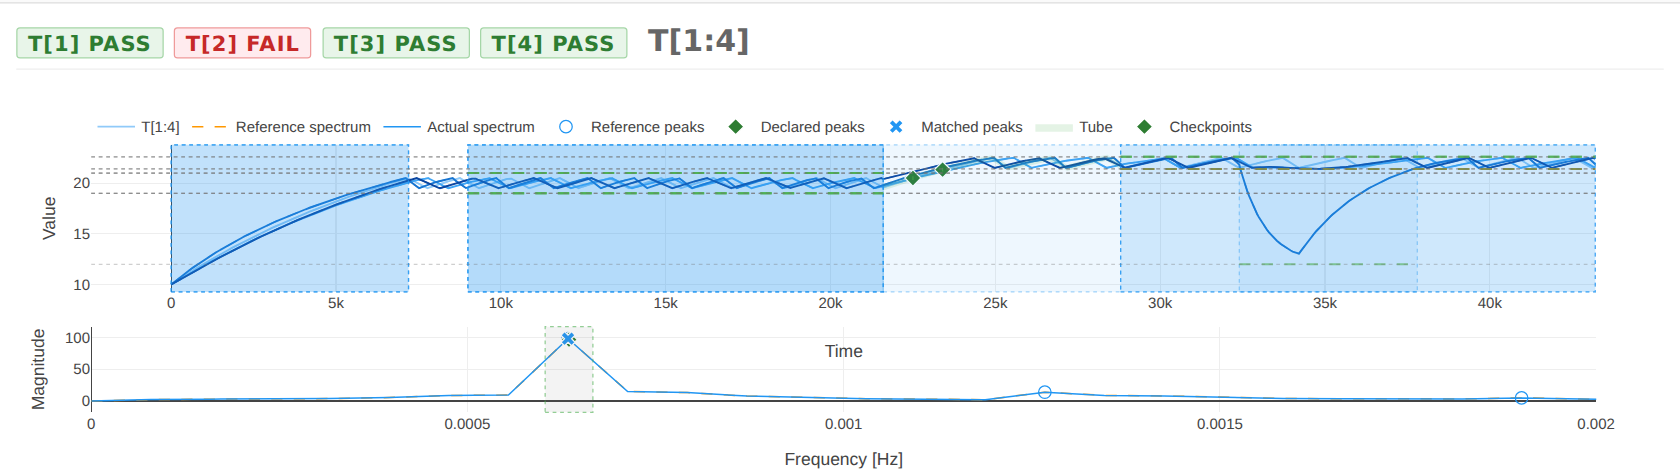
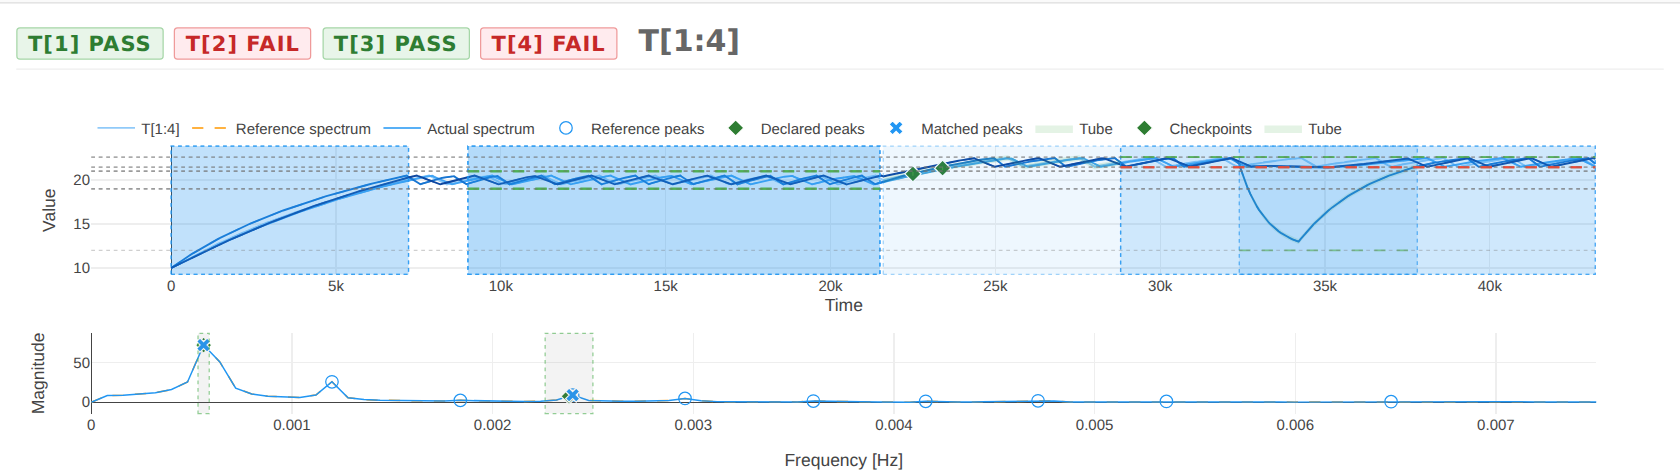
Walk through the showcase's fan and door tube in the criteria guide
The criteria guide's "An example with every metric" now has room 1's
fan and the two peaks dominant-frequency declares, the hard tube on
room 3 over the door (the 12 degC floor stays a warn), and the new
run's numbers: 120 events, both peaks found, rooms 2 and 4 failing
inside the weighted group at 0.023, 17 / 19 criteria passed. The "try
it" paragraph is rewritten from a real run of the 3850 W variant with
Dymola (11 / 19, event count 837 -> 885), and the report screenshot
is retaken from the new run.

The ideas log records the change in the showcase's status, and the
badge entry quotes the new numbers. CLAUDE.md: a 19-leaf tree.

diff --git a/docs/guides/criteria.md b/docs/guides/criteria.md
@@ -162,24 +162,26 @@ so is the base tolerance of a test or a project.
 Modelica example library, puts every metric and every group into one tree.
 Four rooms in a row start at 10 °C, each with a heater and a thermostat that
 holds it within 0.5 °C of 20 °C. At 6 h the setpoint steps to 22 °C, and from
-9 h to 9.5 h room 3's door stands open. The run lasts 12 h, and each part of
-it has its own criteria:
+9 h to 9.5 h room 3's door stands open. Room 1's ventilation fan runs 140 s
+of every 420 s. The run lasts 12 h, and each part of it has its own criteria:
 
 - the warm-up, 0–7200 s: `nrmse` on each room's temperature, `T[1]` to `T[4]`;
 - the cycling, 9000–21500 s: an `or` of `event-timing` on heater 1's state,
-  `heaterOn[1]`, and `dominant-frequency` on the cycle of `T[1]`; and a
-  `k-of-n` that needs three of the four rooms to stay within 19–21 °C
-  (`range`);
+  `heaterOn[1]`, and `dominant-frequency` on `T[1]`, which declares two
+  peaks: the heating cycle, at 5.6e-4 Hz (about 30 minutes), and the fan, at
+  1/420 Hz; and a `k-of-n` that needs three of the four rooms to stay within
+  19–21 °C (`range`);
 - the step, 21600–28800 s: a `tube` of ±0.3 °C around room 1's climb, and
   `points` at two moments of it;
 - the whole run: a `scalar`, the energy heater 1 uses (the integral of
   `P[1]`), within 2 %;
 - the late part, 28800–43200 s: a `weighted` group of three `range`
-  criteria, rooms 1, 2 and 4 within 21.4–22.6 °C, weighted 0.5, 0.3 and 0.2;
-- two `warn` groups: room 3 stays above 12 °C while its door is open and for
-  an hour after, and
-  `T[1]` matches the OpenModelica run, stored as a soft check named
-  `openmodelica`.
+  criteria, rooms 1, 2 and 4 within 21.45–22.6 °C, weighted 0.5, 0.3 and 0.2;
+- the open door, 32400–37800 s: a `tube` of ±0.3 °C around room 3, while its
+  door is open and for an hour after;
+- two `warn` groups: room 3 stays above 12 °C over that same window, a floor
+  that only advises, and `T[1]` matches the OpenModelica run, stored as a soft
+  check named `openmodelica`.
 
 The tree is the test's entry in the library's `test_spec.json`. To run it
 with Dymola, from the repository's root (add `--backend OpenModelica` after
@@ -196,27 +198,34 @@ checkpoint, with the spectrum of the cycle under it:
 
 `event-timing` scores the model's events, not one variable's: every variable
 of a result shares one time column, so heater 1's plot marks the switchings
-of all four rooms, 62 of them between 9000 s and 21500 s. The window ends
-100 s before the setpoint step, so the step's own event stays out of it.
+of all four heaters and of the fan, 120 of them between 9000 s and 21500 s.
+The window ends 100 s before the setpoint step, so the step's own event stays
+out of it. `dominant-frequency` finds both its peaks, at 5.60e-4 Hz and
+2.40e-3 Hz.
 
-Room 2 dips 0.05 °C under its late band, so its `range` criterion fails. Its
-weight is 0.3, so the `weighted` group scores 0.3 × 0.052 = 0.016, under its
-threshold of 0.5, and passes. The page says 17 / 18 criteria passed, and the
+Rooms 2 and 4 dip about 0.05 °C under their late band, so both their `range`
+criteria fail. The `weighted` group tolerates two misses that small: their
+weighted total, 0.3 × 0.047 + 0.2 × 0.046 = 0.023, is far under its threshold
+of 0.5, and the group passes. The page says 17 / 19 criteria passed, and the
 test passes.
 
 To try it, copy the library, give room 3's heater 10 % more power (`Pmax`
 from `{3000, 3200, 3500, 2800}` to `{3000, 3200, 3850, 2800}` in
 `Examples/ThermostatBuildingTest.mo`), and run the command above with the
 copy's `testing.json`, so the copy is scored against the baselines it
-carries. With Dymola the test fails, with 13 / 18 criteria passed. The
-rooms share their heat, so all four warm-up `nrmse` criteria fail (room 3's
-NRMSE is 0.053, against a tolerance of 0.001), and so does `event-timing`,
-which counts more switchings than the baseline holds. The `or` group still passes, because `dominant-frequency` still finds the
-cycle at its period. The `k-of-n` band, the tube, the checkpoints and heater
-1's energy (0.12 % off) all pass. The `weighted` group passes with all three
-of its criteria now, since room 3's extra heat keeps room 2 inside its band.
-Both `warn` groups pass, the OpenModelica comparison at 0.005 against 0.01.
-The run also warns that the model's event count moved, from 453 to 497.
+carries. With Dymola the test fails, with 11 / 19 criteria passed. The rooms
+share their heat, so all four warm-up `nrmse` criteria fail (room 3's NRMSE
+is 0.053, against a tolerance of 0.001), and so does `event-timing`, which
+counts 124 events where the baseline holds 120. The `or` group still passes,
+because `dominant-frequency` still finds both peaks. Both tubes fail: room 1
+leaves its climb's tube (86.5 % of it inside), and room 3, with more power,
+recovers from the open door faster than its baseline (34.9 % inside). The
+`k-of-n` band, the checkpoints and heater 1's energy (0.014 % off) pass. The
+`weighted` group passes with all three of its criteria now, since room 3's
+extra heat lifts rooms 2 and 4 inside their band. The 12 °C floor holds, and
+the OpenModelica comparison fails at 0.013 against 0.01: it is under a
+`warn`, so it only advises. The run also warns that the model's event count
+moved, from 837 to 885.
 
 ## Editing criteria with dstf author
 

diff --git a/docs/ideas.md b/docs/ideas.md
@@ -2214,6 +2214,11 @@ open). What changed from the decisions below when it was built: the tube is
 setpoint step's event stays out of the event count; the frequency peak is
 6.35e-4 Hz, the bin the run measured; and the OpenModelica `against` leaf
 covers the whole run, as the simulators agree within 1.3e-4 throughout.
+Later the same day room 1 got a ventilation fan (140 s of every 420 s), so
+`dominant-frequency` checks two peaks (the heating cycle at 5.6e-4 Hz and the
+fan at 1/420 Hz), and room 3 a hard tube over the door window, making 19
+leaves; with the fan the late band's floor rose to 21.45 °C, which rooms 2
+and 4 miss inside the `weighted` group.
 Decisions:
 - `ModelicaTestingLib.Examples.ThermostatBuildingTest`, beside the 13; its
   Documentation annotation draws the tree, as `MetricTreeTest`'s does.
@@ -2258,6 +2263,16 @@ Decisions:
   OpenModelica here, and measure event counts per simulator, warm-up
   agreement between them, baseline size, and that every leaf passes on its
   own baseline. A failure there goes back to the owner before the build.
+
+**A badge for a failure its group absorbs (owner, 2026-10-30; from the
+kitchen-sink build; not scheduled).** A plot's variable badges say FAIL when
+any criterion on that variable fails, even when a group above it passes
+anyway: in `ThermostatBuildingTest` rooms 2 and 4 miss their late band by
+about 0.047 °C, the `weighted` group scores 0.023 against 0.5 and passes, and
+the test passes, yet the rooms' plot shows a red "T[2] FAIL" and "T[4] FAIL".
+A newcomer reads that as a broken example. The same holds under `or`,
+`k-of-n` and `warn`. A softer state — "failed, but its group passes" — would
+change both tiers' badges and the criteria rows. A UI question: decide it from rendered options.
 
 **Per-signal event detection (owner, 2026-10-30; from the kitchen-sink grill;
 not scheduled).** `event-timing` finds events only from repeated time stamps,

diff --git a/CLAUDE.md b/CLAUDE.md
@@ -89,7 +89,7 @@ DynamicSystemsTestingFramework/
 ├── examples/
 │   ├── modelica/ModelicaTestingLib/   # Demo Modelica library (UnitTests component + 14 tests: one per mode and combinator,
 │   │                                  #      an array model — HeatRodTest, `T[20]` — MetricTreeTest with its `analytic` companion,
-│   │                                  #      and ThermostatBuildingTest: four rooms scored by one 18-leaf tree that uses every metric and combinator)
+│   │                                  #      and ThermostatBuildingTest: four rooms scored by one 19-leaf tree that uses every metric and combinator)
 │   ├── fmu/                           # Reference-FMUs demo (BouncingBall / Dahlquist / VanDerPol)
 │   ├── julia/JuliaMtkTestingLib/      # Julia/MTK demo library (mirrors ModelicaTestingLib layout)
 │   └── python/PythonTestingLib/       # Python demo library (SimpleRamp via scipy, ConstantCsv data loader)
